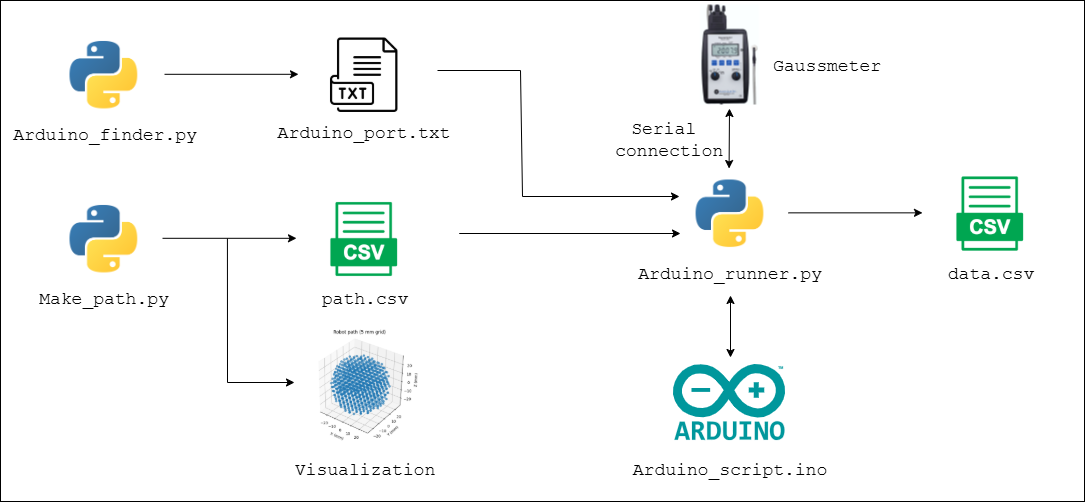
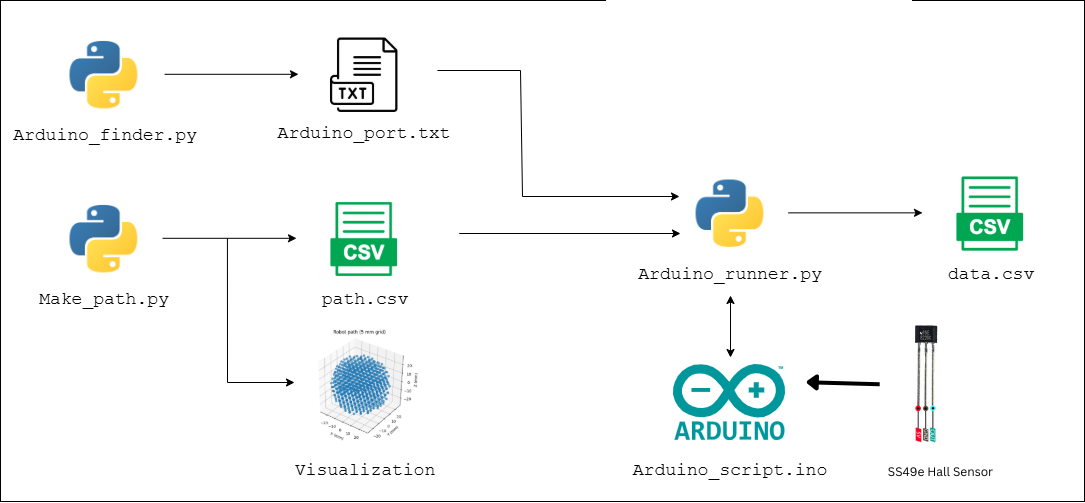
Edited readme and Wiring diagram to include hall sensor

diff --git a/README.md b/README.md
@@ -59,7 +59,7 @@ Design of a **modular, cost‑effective robot** for mapping magnetic fields with
 
 1. Clone the repository:  
     ```bash  
-    git clone https://github.com/SipanHovsep/Field_mapper_robot
+    git clone https://github.com/Rowzun/Imagine-School-Nepal-Site-NIC-Field-Mapper-Bot.git
     ```  
 2. Install dependencies:  
     ```bash  
